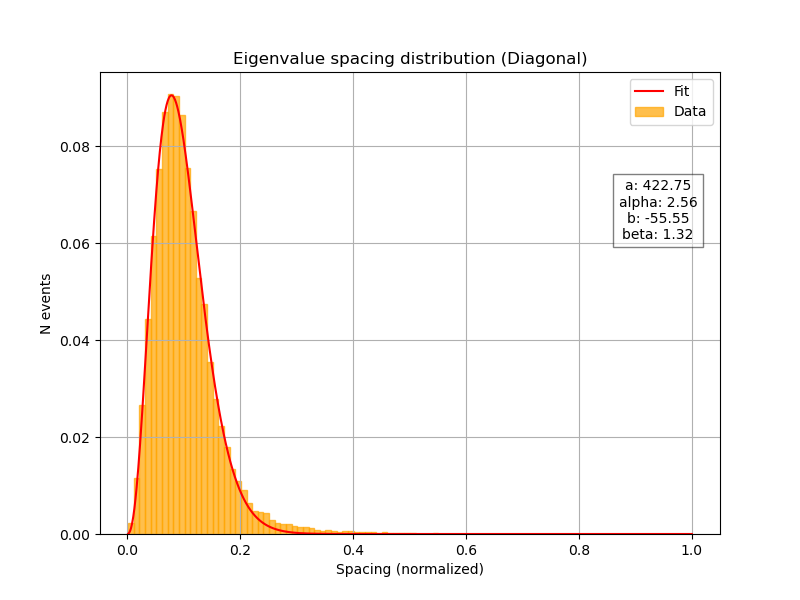
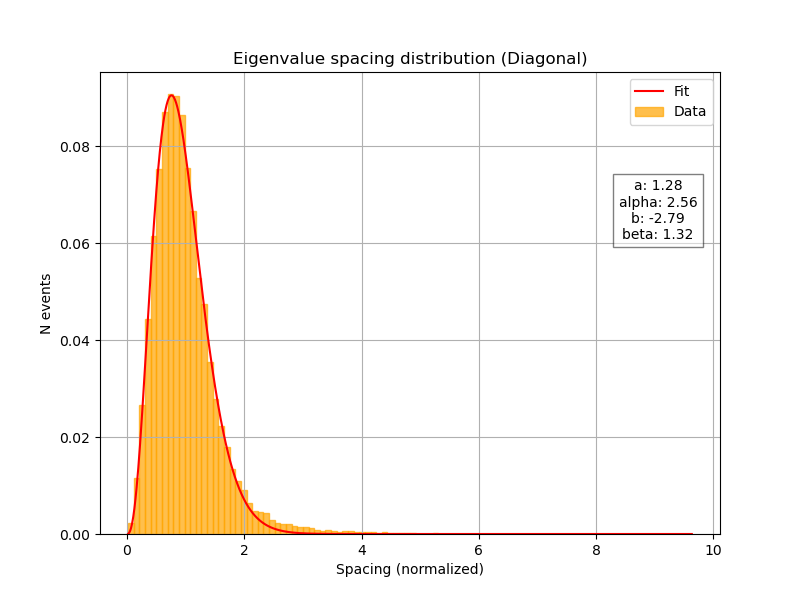
Ex3- even better! (Normalize spacing with the mean)

diff --git a/hw/hw3/random_mat.py b/hw/hw3/random_mat.py
@@ -59,7 +59,7 @@ def spacingH(N, N_matrices, trim=True):
         
         spacing.extend(spacing_temp)
     
-    spacing_norm = spacing / np.max(spacing)
+    spacing_norm = spacing / np.mean(spacing)
     
     return spacing_norm, eigvals
     
@@ -84,7 +84,7 @@ def spacingD(N, N_matrices, trim=True):
 
         spacing.extend(spacing_temp)
         
-    spacing_norm = spacing / np.max(spacing)
+    spacing_norm = spacing / np.mean(spacing)
     
     return spacing_norm, eigvals
     
